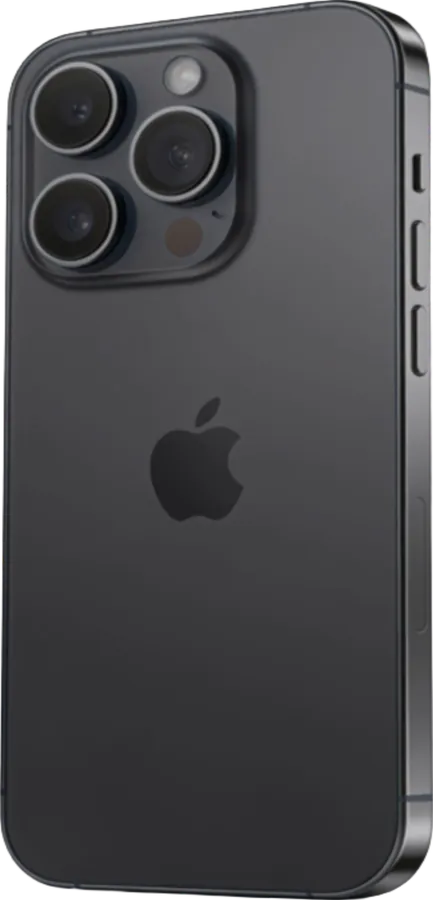
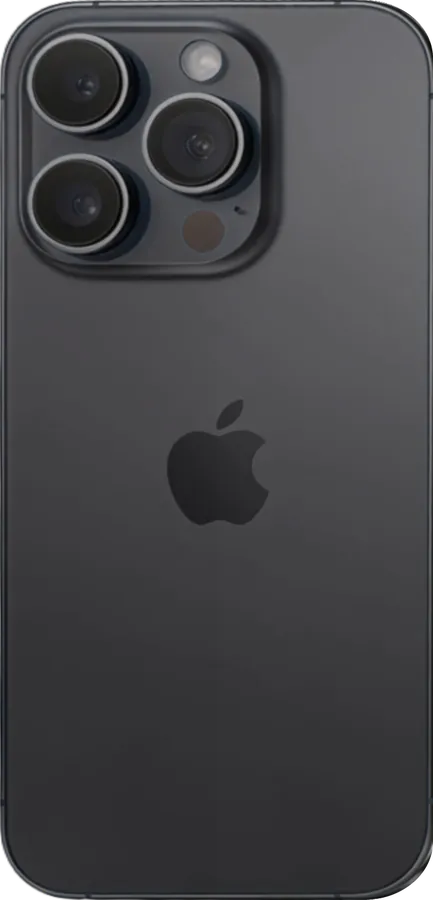
Phone backs: straighten the Pro source so every flat shot matches
The 14/15/16 Pro and Pro Max backs came from a photo shot slightly from the
right (near side taller, its frame and buttons showing), so the flat shot did
not match the dead-flat 17/18 Pro backs and the turned view showed two edges.
bake_extra_phones.py now maps the back onto a true rectangle and keeps the
same thin rim on all four sides; the engine draws the edge when a phone turns.

motion/views-sheet.html renders every phone at every angle the video maker
lands it at (back and screen; flat, left edge, right edge) with the engine's
own drawPhone, now exported for it. ?only=16-pro,15- narrows the list.

Claude-Session: https://claude.ai/code/session_018ASLJHmhcMKyUghKnj4nRg

Changed region(s): [[0.0, 0.0, 1.0, 1.0], [0.4503, 0.4356, 0.6305, 0.5911], [0.3303, 0.4667, 0.4804, 0.5911]]

diff --git a/motion/views-sheet.html b/motion/views-sheet.html
@@ -1,0 +1,28 @@
+<!doctype html><meta charset=utf-8><title>Phone views</title>
+<style>body{margin:0;background:#2b2733;color:#eee;font:13px system-ui}canvas{display:block}</style>
+<body><canvas id=c></canvas><script type=module>
+// Every phone at every angle the video maker can land it at, drawn by the
+// engine itself: back and screen, flat and turned to either edge. One row per
+// phone, so a model that is off in any view shows up next to the others.
+import { loadPhones, Phone, drawPhone } from "./engine.js";
+const { phones, index } = await loadPhones("./phones/");
+const only = new URLSearchParams(location.search).get("only");
+const list = index.filter(m => !only || only.split(",").some(p => m.id.startsWith(p)));
+const VIEWS = [["Back", Math.PI], ["Back, left edge", Math.PI - .6], ["Back, right edge", Math.PI + .6],
+  ["Screen", 0], ["Screen, left edge", -.6], ["Screen, right edge", .6]];
+const PH = 260, CW = 170, LW = 190, RH = PH + 40, cols = 2;
+const c = document.getElementById("c"), W = cols * (LW + CW * VIEWS.length);
+c.width = W; c.height = Math.ceil(list.length / cols) * RH + 40;
+const x = c.getContext("2d");
+x.fillStyle = "#2b2733"; x.fillRect(0, 0, c.width, c.height);
+x.fillStyle = "#bbb"; x.font = "600 15px system-ui";
+VIEWS.forEach(([n], j) => { for (let k = 0; k < cols; k++) x.fillText(n, k * (LW + CW * VIEWS.length) + LW + j * CW + 10, 26); });
+list.forEach((m, i) => {
+  const ox = (i % cols) * (LW + CW * VIEWS.length), oy = 40 + Math.floor(i / cols) * RH;
+  x.fillStyle = "#fff"; x.font = "600 16px system-ui"; x.fillText(m.model.replace("iPhone ", ""), ox + 12, oy + PH / 2);
+  x.fillStyle = "#aaa"; x.font = "14px system-ui"; x.fillText(m.finish + (m.repaint ? " (painted)" : ""), ox + 12, oy + PH / 2 + 20);
+  const p = new Phone(phones[m.id].img, m, PH);
+  VIEWS.forEach(([, flip], j) => drawPhone(x, p, ox + LW + j * CW + CW / 2, oy + PH / 2 + 10, 1, 0, flip, 0, 1, W, null));
+});
+document.title = "ready";
+</script>

diff --git a/motion/engine.js b/motion/engine.js
@@ -381,7 +381,7 @@ export class Phone {
   }
 }
 
-function drawPhone(ctx, p, x, y, scale, rot, flip, z, op, W, tint, noShadow = false) {
+export function drawPhone(ctx, p, x, y, scale, rot, flip, z, op, W, tint, noShadow = false) {
   const c = Math.cos(flip), ac = Math.abs(c), front = c >= 0;
   const w = p.w * scale, h = p.h * scale;
   const zz = clamp(z, 0, 1);

diff --git a/scripts/bake_extra_phones.py b/scripts/bake_extra_phones.py
@@ -132,8 +132,53 @@ def metal_of(im):
     return "#" + "".join(f"{int(v):02x}" for v in a[y, x, :3])
 
 
+def fit_x(a, ys, glass=False):
+    """x of the phone's left edge (alpha) or the right edge of the blue glass, per row."""
+    lab = color.rgb2lab(a[..., :3] / 255)
+    blue = np.hypot(lab[..., 1], lab[..., 2]) > 15
+    return [np.where(blue[y])[0].max() if glass else np.where(a[y, :, 3] > 128)[0].min() for y in ys]
+
+
+def straighten(src):
+    """The only straight-on source is shot slightly from the right: the near side
+    is taller and its frame, buttons and all, shows. Map the back onto a true
+    rectangle, the right edge taken at the glass plus the thin rim every other
+    side shows, so the flat shot matches the dead-flat 17 and 18 Pro backs."""
+    from skimage import transform
+    a = np.asarray(src).astype(float)
+    ys = np.arange(250, 1350, 50)
+    xs = np.arange(200, 560, 20)
+    lx = np.polyfit(ys, fit_x(a, ys), 1)
+    rim = 9
+    rx = np.polyfit(ys, np.array(fit_x(a, ys, glass=True)) + rim, 1)
+    ty = np.polyfit(xs, [np.where(a[:, x, 3] > 128)[0].min() for x in xs], 1)
+    by = np.polyfit(xs, [np.where(a[:, x, 3] > 128)[0].max() for x in xs], 1)
+
+    def meet(xl, yl):                                # a vertical-ish x(y) line against a y(x) line
+        x = xl[1]
+        for _ in range(20):
+            y = np.polyval(yl, x); x = np.polyval(xl, y)
+        return x, np.polyval(yl, x)
+    quad = np.array([meet(lx, ty), meet(rx, ty), meet(rx, by), meet(lx, by)])
+    w = round(np.hypot(*(quad[1] - quad[0])) / 2 + np.hypot(*(quad[2] - quad[3])) / 2)
+    h = round(np.hypot(*(quad[3] - quad[0])) / 2 + np.hypot(*(quad[2] - quad[1])) / 2)
+    rect = np.array([[0, 0], [w, 0], [w, h], [0, h]], float)
+    if hasattr(transform.ProjectiveTransform, "from_estimate"):
+        tf = transform.ProjectiveTransform.from_estimate(rect, quad)
+    else:
+        tf = transform.ProjectiveTransform(); tf.estimate(rect, quad)
+    out = transform.warp(a / 255, tf, output_shape=(h, w), order=3, cval=0)
+    img = Image.fromarray((np.clip(out, 0, 1) * 255).round().astype(np.uint8), "RGBA")
+    # the silhouette: the corners every flat back has, the near side's frame gone
+    m = Image.new("L", (w * 4, h * 4), 0)
+    ImageDraw.Draw(m).rounded_rectangle((0, 0, w * 4 - 1, h * 4 - 1), round(w * 4 * .16), fill=255)
+    m = m.resize((w, h), Image.LANCZOS)
+    img.putalpha(Image.fromarray(np.minimum(np.asarray(m), np.asarray(img.getchannel("A")) + np.asarray(m) * (np.arange(w) > w * .5))))
+    return img
+
+
 def bake_pro():
-    src = Image.open(CUT / "iphone-15-pro-back-blue.webp").convert("RGBA")
+    src = straighten(Image.open(CUT / "iphone-15-pro-back-blue.webp").convert("RGBA"))
     lab = color.rgb2lab(np.asarray(src)[..., :3] / 255)
     chroma = np.hypot(lab[..., 1], lab[..., 2])
     body = chroma > 18
